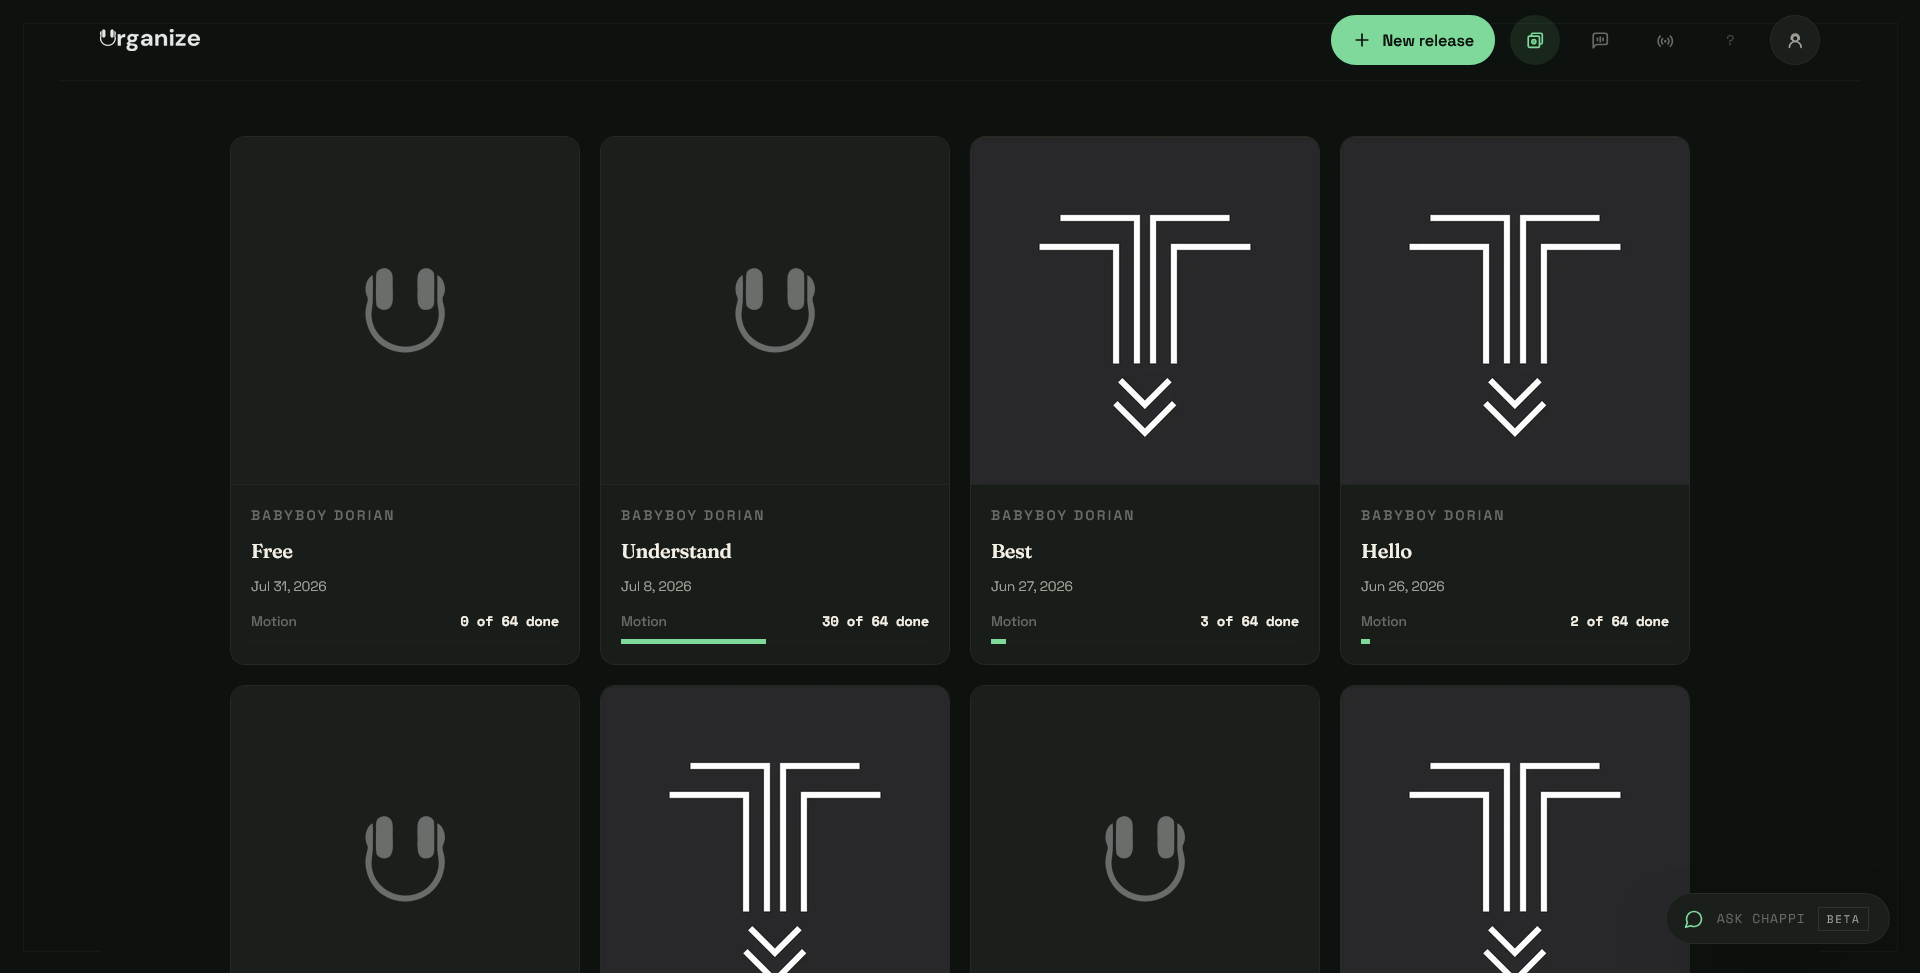
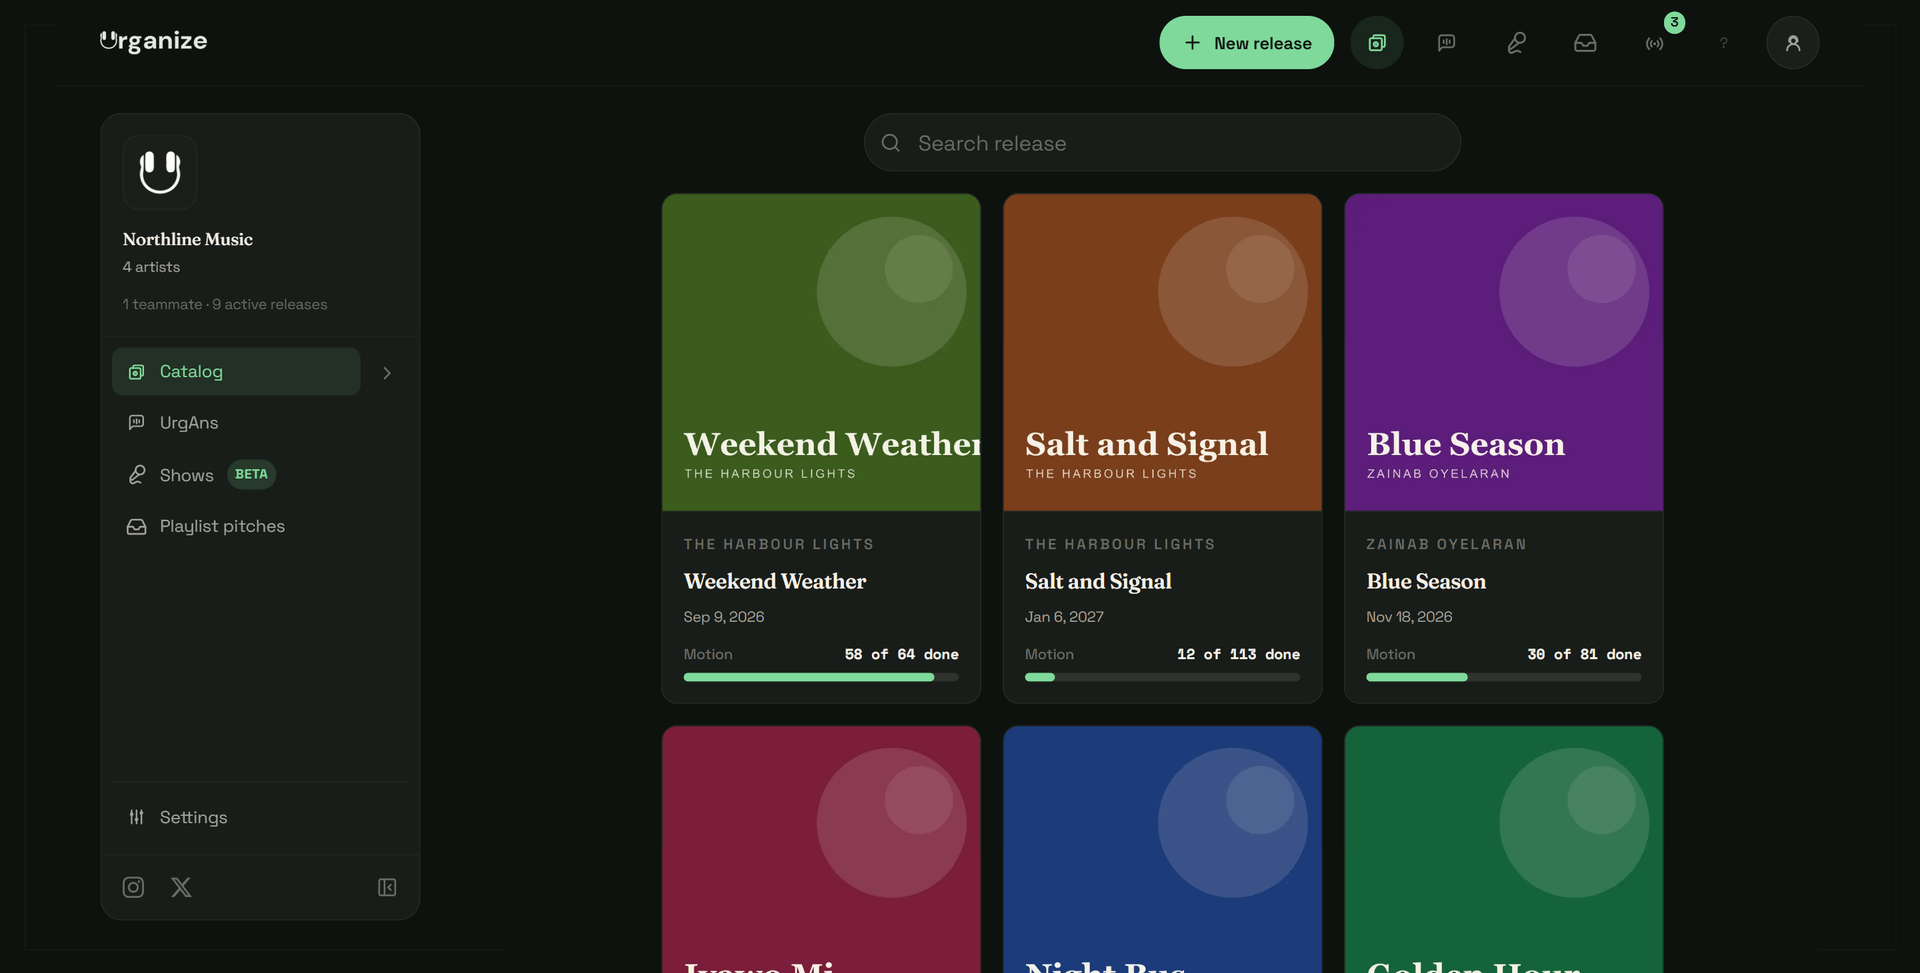
chore(homepage): retake every product screenshot from a seeded demo team (URG-240)
Four capture passes of scripts/capture-product-shots.mjs against the seeded
"Northline Music" demo team (fictional artists, no client data): the catalog
on desktop and phone, a scoped release, an activity detail, the Timeline, the
artists roster, a two-turn UrgAns conversation and the public press kit, each
in light and dark from the same DOM. The legacy workspace-releases and
workspace-tasks filenames are retaken too, so /features, /brand and the four
persona pages show the current UI with no code change.

The script gains --anonymise (swap the signed-in person's display name for a
fictional one in every text node), auto-accepted dialogs, a 60s per-command
and 4-minute per-shot budget, one reload on a transient "Could not load"
banner, case-insensitive text waits (innerText follows text-transform), and
an image wait that requires a decoded image rather than a completed request.
content/product-shots.ts is the generated manifest with dimensions read back
from the files.

diff --git a/apps/homepage/content/product-shots.ts b/apps/homepage/content/product-shots.ts
@@ -1,0 +1,65 @@
+// GENERATED by scripts/capture-product-shots.mjs on 2026-09-02.
+// Do not edit by hand: re-run `pnpm --filter @urganize/homepage shots`.
+// Dimensions are read back from the written PNGs, so a component that spreads
+// an entry into ThemedProductShot can never disagree with the file it renders.
+// A dark-locked surface (the public press kit) lists the same file for both.
+
+export type ProductShot = {
+  light: string;
+  dark: string;
+  width: number;
+  height: number;
+};
+
+export const PRODUCT_SHOTS = {
+  catalog: {
+    light: "/images/product/catalog.png",
+    dark: "/images/product/catalog-dark.png",
+    width: 1920,
+    height: 973,
+  },
+  catalogPhone: {
+    light: "/images/product/catalog-phone.png",
+    dark: "/images/product/catalog-phone-dark.png",
+    width: 780,
+    height: 1688,
+  },
+  scopedRelease: {
+    light: "/images/product/scoped-release.png",
+    dark: "/images/product/scoped-release-dark.png",
+    width: 1920,
+    height: 973,
+  },
+  activityDetail: {
+    light: "/images/product/activity-detail.png",
+    dark: "/images/product/activity-detail-dark.png",
+    width: 1920,
+    height: 973,
+  },
+  timeline: {
+    light: "/images/product/timeline.png",
+    dark: "/images/product/timeline-dark.png",
+    width: 1920,
+    height: 973,
+  },
+  artistsRoster: {
+    light: "/images/product/artists-roster.png",
+    dark: "/images/product/artists-roster-dark.png",
+    width: 1920,
+    height: 973,
+  },
+  epkPhone: {
+    light: "/images/product/epk-phone-dark.png",
+    dark: "/images/product/epk-phone-dark.png",
+    width: 780,
+    height: 1688,
+  },
+  urgansConfirmation: {
+    light: "/images/product/urgans-confirmation.png",
+    dark: "/images/product/urgans-confirmation-dark.png",
+    width: 1920,
+    height: 973,
+  },
+} as const satisfies Record<string, ProductShot>;
+
+export type ProductShotName = keyof typeof PRODUCT_SHOTS;

diff --git a/apps/homepage/app/components/landing/sections/WorkspaceShotSection.tsx b/apps/homepage/app/components/landing/sections/WorkspaceShotSection.tsx
@@ -3,11 +3,13 @@ import { ScrollReveal } from "../ScrollReveal";
 import { SectionShell } from "../SectionShell";
 import { wideContainerClass } from "./shared";
 
-// Real screenshot of the current workspace (light and dark retaken together
-// 2026-08-01, same catalog and scroll position in both so the shot follows
-// the site's theme toggle cleanly). If the UI changes meaningfully, retake
-// BOTH the light and dark version — never let marketing imagery lag the
-// product again.
+// Real screenshot of the current catalog. Since 2026-09-02 both files are
+// written by scripts/capture-product-shots.mjs (`pnpm --filter
+// @urganize/homepage shots`), light and dark from the same DOM, so the shot
+// follows the site's theme toggle cleanly and retaking is one command when
+// the UI changes — never let marketing imagery lag the product again. The
+// homepage hero carries its own copy of this capture (HeroSection, since
+// 2026-09-02); this mount serves the four persona pages.
 export function WorkspaceShotSection() {
   return (
     <ScrollReveal>
@@ -29,7 +31,7 @@ export function WorkspaceShotSection() {
           <ThemedProductShot
             light="/images/product/workspace-releases.png"
             dark="/images/product/workspace-releases-dark.png"
-            alt="The Urganize catalog: a grid of release cards, each with cover art, a release date and a progress bar counting finished activities against its 64-activity plan. The top row runs from 0 of 64 done to 30 of 64."
+            alt="The Urganize catalog for a team running several artists: a grid of release cards, each with cover art, a release date and a progress bar counting finished activities against its plan."
             width={1920}
             height={973}
             sizes="(min-width: 1440px) 1344px, (min-width: 1024px) calc(100vw - 80px), 100vw"
